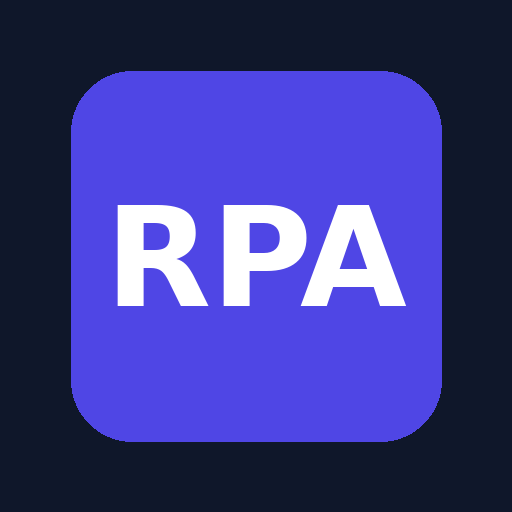
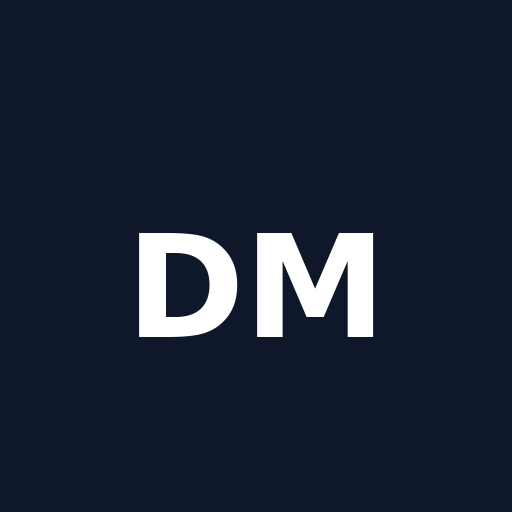
Atualizar DM Âncora para instalação no Android

diff --git a/index.html b/index.html
@@ -1,4 +1,4 @@
-<!doctype html><html lang="pt-BR"><head><meta charset="utf-8"><meta name="viewport" content="width=device-width,initial-scale=1"><title>Emissor RPA Valmera</title><style>
+<!doctype html><html lang="pt-BR"><head><meta charset="utf-8"><meta name="viewport" content="width=device-width,initial-scale=1"><title>DM Âncora</title><style>
 :root{--n:#0f172a;--i:#4f46e5;--b:#f1f5f9;--l:#cbd5e1;--r:#b91c1c;--g:#047857}*{box-sizing:border-box}body{margin:0;background:var(--b);font:14px Arial;color:#1e293b}header{background:var(--n);color:#fff;padding:20px}.wrap{width:100%;max-width:none;margin:0 auto}.row,.actions{display:flex;gap:8px;align-items:center;justify-content:space-between}.layout{display:grid;grid-template-columns:minmax(0,1fr) minmax(0,1fr);gap:14px;padding:12px 14px;width:100%}.card,.paper{background:#fff;border:1px solid var(--l);border-radius:12px;padding:18px;margin-bottom:16px}.fields{display:grid;grid-template-columns:1fr 1fr;gap:12px}.full{grid-column:1/-1}label{font-size:12px;font-weight:700;display:block;margin-bottom:4px}input,textarea,select{width:100%;padding:9px;border:1px solid var(--l);border-radius:7px;font:inherit}button{padding:9px 12px;border:0;border-radius:7px;color:#fff;background:#334155;font-weight:700;cursor:pointer}.primary{background:var(--i)}.danger{background:#7f1d1d}.notice{padding:11px;background:#eef2ff;border:1px solid #c7d2fe;border-radius:8px;font-size:12px}.admin-only{display:none!important}.admin-dashboard{display:none;position:fixed;inset:0;background:#f1f5f9;z-index:8;overflow:auto;padding:20px}.admin-dashboard.open{display:block}.admin-dashboard .admin-only{display:block!important}.admin-panel-wrap{max-width:1150px;margin:auto}.admin-top{position:sticky;top:0;background:#0f172a;color:#fff;padding:14px 18px;border-radius:12px;display:flex;justify-content:space-between;align-items:center;gap:12px;z-index:2;margin-bottom:16px}.admin-tabs{display:flex;flex-wrap:wrap;gap:7px}.admin-tab.active{background:#4f46e5}.admin-section{display:none}.admin-section.active{display:block}.tools{display:flex;flex-wrap:wrap;gap:7px}.history{max-height:280px;overflow:auto;border:1px solid #e2e8f0;border-radius:8px}table{width:100%;border-collapse:collapse;font-size:11px}th,td{padding:7px;border-bottom:1px solid #e2e8f0;text-align:left}th{background:#f8fafc;position:sticky;top:0}.paper{position:sticky;top:10px;padding:26px}.dochead{border-bottom:2px solid var(--n);padding-bottom:12px;display:flex;justify-content:space-between}.title{font-size:20px;font-weight:800}.parts{display:grid;grid-template-columns:1fr 1fr;gap:15px;margin:16px 0;padding:12px 0;border-block:1px solid #ddd}.total{background:var(--n);color:#fff;font-weight:bold}.total td:last-child{color:#34d399}.sig{display:grid;grid-template-columns:1fr 1fr;gap:30px;margin-top:55px;text-align:center}.sig div{border-top:1px solid #555;padding-top:5px}.modal{display:none;position:fixed;inset:0;background:#0f172acc;align-items:center;justify-content:center;z-index:10}.modal.open{display:flex}.modalbox{background:#fff;padding:22px;border-radius:12px;width:min(420px,92%)}.status{font-size:11px;color:#64748b;margin-top:6px}.hidden{display:none!important}.security-grid{display:grid;grid-template-columns:1fr 1fr;gap:10px}.lock-warning{color:#b91c1c;font-weight:700;font-size:12px;margin-top:8px}@media(max-width:650px){.security-grid{grid-template-columns:1fr}}@media(max-width:900px){.layout{grid-template-columns:1fr}.paper{position:static}.fields{grid-template-columns:1fr}.full{grid-column:auto}}@media print{.no-print{display:none!important}body{background:#fff}.layout{display:block;padding:0}.paper{border:0;padding:8mm;margin:0;box-shadow:none}@page{size:A4;margin:8mm}}
 
 /* Modo compacto e responsivo */
@@ -42,18 +42,18 @@ body.modo-compacto h2{margin-block-start:.35em;margin-block-end:.35em}
 <meta name="mobile-web-app-capable" content="yes">
 <meta name="apple-mobile-web-app-capable" content="yes">
 <meta name="apple-mobile-web-app-status-bar-style" content="black-translucent">
-<meta name="apple-mobile-web-app-title" content="RPA Valmera">
+<meta name="apple-mobile-web-app-title" content="DM Âncora">
 <link rel="apple-touch-icon" href="icons/icon-192.png">
 </head><body>
-<header class="no-print"><div class="wrap row"><div><b style="font-size:22px">Emissor de RPA 2026</b><div id="headerEmpresa" style="font-size:11px;color:#cbd5e1">VALMERA LTDA</div></div><div class="tools"><button id="compactBtn" type="button">Modo compacto</button><button id="adminBtn">Painel administrativo</button><button id="printBtn" class="primary">Emitir / Imprimir</button></div></div></header>
+<header class="no-print"><div class="wrap row"><div><b style="font-size:22px">DM Âncora</b><div id="headerEmpresa" style="font-size:11px;color:#cbd5e1">VALMERA LTDA</div></div><div class="tools"><button id="compactBtn" type="button">Modo compacto</button><button id="adminBtn">Painel administrativo</button><button id="printBtn" class="primary">Emitir / Imprimir</button></div></div></header>
 <main class="wrap layout"><section class="no-print">
 <div class="card"><h2>Cadastro de prestadores</h2><div class="fields"><div class="full"><label>Prestador cadastrado</label><select id="selPrest"><option value="">Novo prestador</option></select></div><div class="full tools"><button id="novo">Novo</button><button id="salvar" class="primary">Salvar cadastro</button><button id="excluir" class="danger admin-only">Excluir</button></div><div class="full"><label>Nome completo *</label><input id="nome"></div><div><label>CPF *</label><input id="cpf" maxlength="14" placeholder="000.000.000-00"><div id="cpfStatus" class="status"></div></div><div><label>PIS/NIT/PASEP</label><input id="pis"></div><div class="full"><label>Profissão</label><input id="prof"></div></div></div>
 <div class="card"><h2>RPA</h2><div class="fields"><div class="full"><label>Descrição do serviço *</label><textarea id="servico" rows="3"></textarea></div><div><label>Valor bruto *</label><input id="bruto" value="R$ 5.000,00"></div><div><label>Número</label><input id="numero" value="2026/001"></div><div><label>Data</label><input id="data" maxlength="10" placeholder="00/00/0000"></div><div><label>Dependentes</label><input id="deps" type="number" min="0" value="0"></div></div></div>
 <div class="card admin-only admin-section active" data-admin-section="licenciamento"><h2>Dados da empresa</h2><div class="notice">Este painel é protegido pela senha do proprietário. Altere os dados antes de entregar o programa ao cliente.</div><div class="fields" style="margin-top:12px"><div class="full"><label>Razão social / Empresa</label><input id="licEmpresaPainel"></div><div><label>CNPJ</label><input id="licCnpjPainel" maxlength="18" placeholder="00.000.000/0000-00"><div id="licCnpjStatus" class="status"></div></div><div class="full tools"><button id="empresaSalvar" type="button" class="primary">Salvar empresa</button><button id="licCopiar" type="button">Copiar dados da empresa</button></div></div><div id="empresaStatus" class="status"></div></div><div class="card admin-only admin-section" data-admin-section="auditoria"><h2>Auditoria das alterações</h2><div class="tools" style="margin-bottom:8px"><button id="auditExport">Exportar auditoria</button><button id="auditLimpar" class="danger">Limpar auditoria</button></div><div class="history"><table><thead><tr><th>Data/hora</th><th>Ação</th><th>Responsável</th><th>Detalhes</th></tr></thead><tbody id="auditBody"></tbody></table><div id="auditVazio" class="status" style="padding:12px">Nenhum evento registrado.</div></div></div>
-<div class="card admin-only admin-section" data-admin-section="senha"><h2>Trocar código administrativo local</h2><div class="notice">Este código protege apenas as configurações locais deste aplicativo. Não informe senha de e-mail, Google, banco ou qualquer outro serviço.</div><div class="security-grid" style="margin-top:12px"><div><label>Código atual</label><input id="pwdAtual" type="text" aria-label="Código administrativo atual" autocomplete="off" inputmode="text" data-lpignore="true" data-1p-ignore="true"></div><div><label>Novo código</label><input id="pwdNova" type="text" aria-label="Novo código administrativo" autocomplete="off" inputmode="text" data-lpignore="true" data-1p-ignore="true"></div><div><label>Confirmar novo código</label><input id="pwdConfirma" type="text" aria-label="Confirmação do código administrativo" autocomplete="off" inputmode="text" data-lpignore="true" data-1p-ignore="true"></div><div class="full tools"><button id="pwdSalvar" type="button" class="primary">Alterar código</button></div></div><div id="pwdStatus" class="status"></div></div><div class="card admin-only admin-section" data-admin-section="configuracoes"><h2>Configurações protegidas</h2><div class="notice">Somente o proprietário pode alterar estes parâmetros.</div><div class="fields"><div><label>INSS (%)</label><input id="aliqINSS" type="number" value="11" step="0.1"></div><div><label>Teto INSS</label><input id="teto" type="number" value="8475.55" step="0.01"></div><div><label>Aplicar IRRF</label><input id="usaIR" type="checkbox" checked></div><div><label>ISS (%)</label><input id="iss" type="number" value="0" step="0.1"></div><div><label>CBS (%)</label><input id="cbs" type="number" value="0.9" step="0.1"></div><div><label>IBS (%)</label><input id="ibs" type="number" value="0.1" step="0.1"></div></div></div>
+<div class="card admin-only admin-section" data-admin-section="senha"><h2>Trocar senha do proprietário</h2><div class="notice">A senha protege somente o Painel administrativo. Guarde a nova senha em local seguro.</div><div class="security-grid" style="margin-top:12px"><div><label>Senha atual</label><input id="pwdAtual" type="password" autocomplete="off"></div><div><label>Nova senha</label><input id="pwdNova" type="password" autocomplete="off"></div><div><label>Confirmar nova senha</label><input id="pwdConfirma" type="password" autocomplete="off"></div><div class="full tools"><button id="pwdSalvar" type="button" class="primary">Alterar senha</button></div></div><div id="pwdStatus" class="status"></div></div><div class="card admin-only admin-section" data-admin-section="configuracoes"><h2>Configurações protegidas</h2><div class="notice">Somente o proprietário pode alterar estes parâmetros.</div><div class="fields"><div><label>INSS (%)</label><input id="aliqINSS" type="number" value="11" step="0.1"></div><div><label>Teto INSS</label><input id="teto" type="number" value="8475.55" step="0.01"></div><div><label>Aplicar IRRF</label><input id="usaIR" type="checkbox" checked></div><div><label>ISS (%)</label><input id="iss" type="number" value="0" step="0.1"></div><div><label>CBS (%)</label><input id="cbs" type="number" value="0.9" step="0.1"></div><div><label>IBS (%)</label><input id="ibs" type="number" value="0.1" step="0.1"></div></div></div>
 </section><section><article class="paper"><div class="dochead"><div><div class="title">Recibo de Pagamento a Autônomo</div><small id="docEmpresaCab">VALMERA LTDA</small></div><div><b>Nº <span id="oNumero">---</span></b><br><span id="oData">__/__/____</span></div></div><p>Recebi de <b id="docEmpresaTexto">VALMERA LTDA</b>, CNPJ <span id="docCnpjTexto">34.085.077/0001-23</span>, a quantia abaixo demonstrada pelos serviços prestados.</p><div class="parts"><div><b>PRESTADOR</b><p id="oNome">---</p><p>CPF: <span id="oCpf">---</span></p><p>PIS/NIT: <span id="oPis">---</span></p><p>Profissão: <span id="oProf">---</span></p></div><div><b>SERVIÇO</b><p id="oServico">---</p></div></div><table><tbody><tr><td>Valor bruto</td><td id="oBruto"></td></tr><tr><td>(-) INSS</td><td id="oINSS"></td></tr><tr><td>(-) IRRF</td><td id="oIR"></td></tr><tr><td>(-) ISS</td><td id="oISS"></td></tr><tr><td>CBS/IBS informativos</td><td id="oIVA"></td></tr><tr class="total"><td>VALOR LÍQUIDO</td><td id="oLiquido"></td></tr></tbody></table><div class="sig"><div><b id="sigPrest">Prestador</b><br>Prestador</div><div><b id="docEmpresaAss">VALMERA LTDA</b><br>Tomador</div></div><p style="margin-top:28px;text-align:center;font-size:9px;color:#64748b">Sistema licenciado para <span id="licEmpresa">VALMERA LTDA</span></p></article></section></main>
-<div id="adminDashboard" class="admin-dashboard no-print"><div class="admin-panel-wrap"><div class="admin-top"><div><strong style="font-size:18px">Painel administrativo</strong><div style="font-size:11px;color:#cbd5e1">Administração restrita do Emissor RPA VALMERA</div></div><div class="tools"><button class="admin-tab active" data-tab="licenciamento">Empresa</button><button class="admin-tab" data-tab="auditoria">Auditoria</button><button class="admin-tab" data-tab="senha">Trocar senha</button><button class="admin-tab" data-tab="configuracoes">Configurações</button><button class="admin-tab" data-tab="backups">Backups</button><button id="adminSair" class="danger">Fechar painel</button></div></div><div id="adminConteudo"></div></div></div><div class="card admin-only admin-section" data-admin-section="backups"><h2>Dados e backups</h2><div class="tools"><button id="exportar">Exportar backup protegido</button><button id="importar">Importar backup</button><button id="baixarAuto">Baixar último automático</button><input id="arquivo" type="file" accept=".rpa,.json" class="hidden"></div><div id="backupStatus" class="status"></div></div>
-<div id="loginModal" class="modal no-print"><div class="modalbox"><h2>Acesso administrativo local</h2><p class="status">Digite o código administrativo criado para este aplicativo. Não use senha de e-mail, Google, banco ou outro serviço.</p><label>Código administrativo local</label><input id="loginSenha" type="text" aria-label="Código administrativo local" autocomplete="off" inputmode="text" data-lpignore="true" data-1p-ignore="true"><div id="loginMsg" class="status"></div><div class="tools" style="justify-content:flex-end;margin-top:14px"><button id="loginCancelar" type="button">Cancelar</button><button id="loginEntrar" type="button" class="primary">Entrar</button></div></div></div><script>
+<div id="adminDashboard" class="admin-dashboard no-print"><div class="admin-panel-wrap"><div class="admin-top"><div><strong style="font-size:18px">Painel administrativo</strong><div style="font-size:11px;color:#cbd5e1">Administração restrita do DM Âncora</div></div><div class="tools"><button class="admin-tab active" data-tab="licenciamento">Empresa</button><button class="admin-tab" data-tab="auditoria">Auditoria</button><button class="admin-tab" data-tab="senha">Trocar senha</button><button class="admin-tab" data-tab="configuracoes">Configurações</button><button class="admin-tab" data-tab="backups">Backups</button><button id="adminSair" class="danger">Fechar painel</button></div></div><div id="adminConteudo"></div></div></div><div class="card admin-only admin-section" data-admin-section="backups"><h2>Dados e backups</h2><div class="tools"><button id="exportar">Exportar backup protegido</button><button id="importar">Importar backup</button><button id="baixarAuto">Baixar último automático</button><input id="arquivo" type="file" accept=".rpa,.json" class="hidden"></div><div id="backupStatus" class="status"></div></div>
+<div id="loginModal" class="modal no-print"><div class="modalbox"><h2>Desbloquear configurações locais</h2><p class="status">Esta senha protege apenas as configurações armazenadas neste dispositivo. Não use senha de e-mail, banco ou outras contas.</p><label>Senha local do aplicativo</label><input id="loginSenha" type="password" autocomplete="off"><div id="loginMsg" class="status"></div><div class="tools" style="justify-content:flex-end;margin-top:14px"><button id="loginCancelar" type="button">Cancelar</button><button id="loginEntrar" type="button" class="primary">Entrar</button></div></div></div><script>
 const $=x=>document.getElementById(x);let admin=false,prestadores=[],historico=[],autos=[];const K={p:'rpa_prestadores_v3',h:'rpa_historico_v3',a:'rpa_backups_v3',o:'rpa_proprietario_v1',u:'rpa_auditoria_v1'};let proprietario={},auditoria=[];const money=v=>Number(v||0).toLocaleString('pt-BR',{style:'currency',currency:'BRL'}), num=v=>{let t=String(v||'').replace(/[^\d,]/g,'').replace(/\./g,'').replace(',','.');return Math.max(0,Number(t)||0)},safe=(k,d)=>{try{return JSON.parse(localStorage.getItem(k))||d}catch{return d}};
 function prepararPainelAdmin(){const destino=$('adminConteudo');document.querySelectorAll('.admin-section').forEach(sec=>destino.appendChild(sec));trocarAbaAdmin('licenciamento')}
 function trocarAbaAdmin(nome){document.querySelectorAll('.admin-section').forEach(sec=>sec.classList.toggle('active',sec.dataset.adminSection===nome));document.querySelectorAll('.admin-tab').forEach(btn=>btn.classList.toggle('active',btn.dataset.tab===nome))}
@@ -65,10 +65,10 @@ function cnpjMask(v){let d=normCnpj(v).slice(0,14);return d.replace(/^(\d{2})(\d
 function cnpjValido(v){let d=normCnpj(v);if(d.length!==14||/^(\d)\1{13}$/.test(d))return false;let calc=(base,pesos)=>{let soma=base.split('').reduce((a,n,i)=>a+(+n)*pesos[i],0),r=soma%11;return r<2?0:11-r};let d1=calc(d.slice(0,12),[5,4,3,2,9,8,7,6,5,4,3,2]);let d2=calc(d.slice(0,12)+d1,[6,5,4,3,2,9,8,7,6,5,4,3,2]);return d.endsWith(String(d1)+String(d2))}
 function licencaSalva(){return safe(LIC_KEY,null)}
 function senhaHashAtual(){return localStorage.getItem(PWD_KEY)||DEFAULT_PWD_HASH}
-function abrirLogin(){$('loginSenha').value='';$('loginMsg').textContent='';$('loginModal').classList.add('open');setTimeout(()=>$('loginSenha').focus(),0)}
+function abrirLogin(){$('loginSenha').value='';$('loginMsg').textContent='';$('loginSenha').setAttribute('autocomplete','off');$('loginModal').classList.add('open');setTimeout(()=>$('loginSenha').focus(),0)}
 function fecharLogin(){$('loginModal').classList.remove('open')}
-async function autenticar(){if(await hash($('loginSenha').value)!==senhaHashAtual())return $('loginMsg').textContent='Código incorreto.';fecharLogin();abrirPainelAdmin()}
-async function alterarSenhaProprietario(){let atual=$('pwdAtual').value,nova=$('pwdNova').value,conf=$('pwdConfirma').value;if(await hash(atual)!==senhaHashAtual())return $('pwdStatus').textContent='Código atual incorreta.';if(nova.length<8||!/[A-Za-z]/.test(nova)||!/[0-9]/.test(nova))return $('pwdStatus').textContent='Use no mínimo 8 caracteres, com pelo menos uma letra e um número.';if(nova!==conf)return $('pwdStatus').textContent='A confirmação não coincide.';localStorage.setItem(PWD_KEY,await hash(nova));$('pwdAtual').value=$('pwdNova').value=$('pwdConfirma').value='';$('pwdStatus').textContent='Código alterado com sucesso.';auditar('ALTERAÇÃO DE SENHA','Código administrativo local atualizada')}
+async function autenticar(){if(await hash($('loginSenha').value)!==senhaHashAtual())return $('loginMsg').textContent='Senha incorreta.';fecharLogin();abrirPainelAdmin()}
+async function alterarSenhaProprietario(){let atual=$('pwdAtual').value,nova=$('pwdNova').value,conf=$('pwdConfirma').value;if(await hash(atual)!==senhaHashAtual())return $('pwdStatus').textContent='Senha atual incorreta.';if(nova.length<8||!/[A-Za-z]/.test(nova)||!/[0-9]/.test(nova))return $('pwdStatus').textContent='Use no mínimo 8 caracteres, com pelo menos uma letra e um número.';if(nova!==conf)return $('pwdStatus').textContent='A confirmação não coincide.';localStorage.setItem(PWD_KEY,await hash(nova));$('pwdAtual').value=$('pwdNova').value=$('pwdConfirma').value='';$('pwdStatus').textContent='Senha alterada com sucesso.';auditar('ALTERAÇÃO DE SENHA','Senha do proprietário atualizada')}
 function renderEmpresa(){let l=licencaSalva()||{empresa:'VALMERA LTDA',cnpj:'34.085.077/0001-23'};$('headerEmpresa').textContent=l.empresa;$('docEmpresaCab').textContent=l.empresa;$('docEmpresaTexto').textContent=l.empresa;$('docCnpjTexto').textContent=l.cnpj;$('docEmpresaAss').textContent=l.empresa;$('licEmpresa').textContent=l.empresa}
 function carregarEmpresaPainel(){let l=licencaSalva()||{empresa:'VALMERA LTDA',cnpj:'34.085.077/0001-23'};$('licEmpresaPainel').value=l.empresa;$('licCnpjPainel').value=l.cnpj;$('empresaStatus').textContent=''}
 function salvarEmpresa(){if(!admin)return;let empresa=$('licEmpresaPainel').value.trim(),cnpj=$('licCnpjPainel').value;if(!empresa)return $('empresaStatus').textContent='Informe a empresa.';if(!cnpjValido(cnpj))return $('empresaStatus').textContent='CNPJ inválido.';let l={empresa,cnpj:cnpjMask(cnpj),atualizadoEm:new Date().toISOString()};localStorage.setItem(LIC_KEY,JSON.stringify(l));proprietario={...ownerPadrao(),...proprietario,empresa:l.empresa,cnpj:l.cnpj,serial:'',atualizadoEm:l.atualizadoEm};localStorage.setItem(K.o,JSON.stringify(proprietario));renderEmpresa();carregarEmpresaPainel();$('empresaStatus').textContent='Empresa salva com sucesso.';auditar('ALTERAÇÃO DA EMPRESA',l.empresa+' | '+l.cnpj)}
@@ -76,7 +76,7 @@ function exigirLicenca(){if(!licencaSalva())localStorage.setItem(LIC_KEY,JSON.st
 function ownerPadrao(){return{nome:'',cpf:'',empresa:'VALMERA LTDA',cnpj:'34.085.077/0001-23',email:'',telefone:'',serial:'VLMR-2026-001',local:'BELO HORIZONTE/MG',atualizadoEm:''}}
 function carregarOwnerTela(){renderLicenca()}
 function renderLicenca(){renderEmpresa()}
-function exportAudit(){download('auditoria_rpa_valmera.json',{app:'RPA VALMERA',exportadoEm:new Date().toISOString(),proprietario,auditoria})}
+function exportAudit(){download('auditoria_rpa_valmera.json',{app:'DM ÂNCORA',exportadoEm:new Date().toISOString(),proprietario,auditoria})}
 const CHAVE_COMPACTO='rpa_modo_compacto_v1';
 function aplicarModoCompacto(ativo){document.body.classList.toggle('modo-compacto',ativo);$('compactBtn').classList.toggle('ativo',ativo);$('compactBtn').textContent=ativo?'Modo normal':'Modo compacto';localStorage.setItem(CHAVE_COMPACTO,ativo?'1':'0')}
 $('compactBtn').onclick=()=>aplicarModoCompacto(!document.body.classList.contains('modo-compacto'));
@@ -88,8 +88,8 @@ function regRPA(){let id=$('selPrest').value;if(!id)return false;let v=valores()
 function filtrados(){return historico}
 function renderHist(){}
 async function hash(t){let b=await crypto.subtle.digest('SHA-256',new TextEncoder().encode(t));return [...new Uint8Array(b)].map(x=>x.toString(16).padStart(2,'0')).join('')}async function keyFrom(p,s){let km=await crypto.subtle.importKey('raw',new TextEncoder().encode(p),'PBKDF2',false,['deriveKey']);return crypto.subtle.deriveKey({name:'PBKDF2',salt:s,iterations:150000,hash:'SHA-256'},km,{name:'AES-GCM',length:256},false,['encrypt','decrypt'])}const b64=b=>btoa(String.fromCharCode(...new Uint8Array(b))),unb64=s=>Uint8Array.from(atob(s),c=>c.charCodeAt(0));async function encrypt(obj,p){let salt=crypto.getRandomValues(new Uint8Array(16)),iv=crypto.getRandomValues(new Uint8Array(12)),key=await keyFrom(p,salt),ct=await crypto.subtle.encrypt({name:'AES-GCM',iv},key,new TextEncoder().encode(JSON.stringify(obj)));return{formato:'RPA-VALMERA-AES-GCM',salt:b64(salt),iv:b64(iv),dados:b64(ct)}}async function decrypt(obj,p){if(obj.formato!=='RPA-VALMERA-AES-GCM')throw Error('Formato inválido.');let key=await keyFrom(p,unb64(obj.salt)),pt=await crypto.subtle.decrypt({name:'AES-GCM',iv:unb64(obj.iv)},key,unb64(obj.dados));return JSON.parse(new TextDecoder().decode(pt))}
-function pacote(){return{app:'RPA VALMERA',versao:5,data:new Date().toISOString(),proprietario,auditoria,prestadores,historico}}function download(nome,obj){let u=URL.createObjectURL(new Blob([JSON.stringify(obj)],{type:'application/octet-stream'})),a=document.createElement('a');a.href=u;a.download=nome;a.click();setTimeout(()=>URL.revokeObjectURL(u),500)}async function autoBackup(m){let l=licencaSalva(),senha=l?('RPA|'+l.cnpj):'RPA-VALMERA-BACKUP';let enc=await encrypt({...pacote(),motivo:m},senha);autos.unshift(enc);autos=autos.slice(0,10);localStorage.setItem(K.a,JSON.stringify(autos));$('backupStatus').textContent='Backup automático protegido: '+new Date().toLocaleString('pt-BR')}
-async function exportar(){let p=prompt('Senha para proteger o backup:');if(!p)return;download('backup_rpa_valmera.rpa',await encrypt(pacote(),p));auditar('EXPORTAÇÃO DE BACKUP','Backup protegido exportado')}async function importar(f){let p=prompt('Senha do backup:');if(!p)return;try{let d=await decrypt(JSON.parse(await f.text()),p);if(d.app!=='RPA VALMERA')throw Error('Backup incompatível.');await autoBackup('antes da importação');prestadores=d.prestadores||[];historico=d.historico||[];proprietario=d.proprietario||ownerPadrao();auditoria=d.auditoria||[];localStorage.setItem(K.p,JSON.stringify(prestadores));localStorage.setItem(K.h,JSON.stringify(historico));localStorage.setItem(K.o,JSON.stringify(proprietario));localStorage.setItem(K.u,JSON.stringify(auditoria));listP();clearP();carregarOwnerTela();renderAuditoria();auditar('IMPORTAÇÃO DE BACKUP','Backup restaurado');alert('Backup importado.')}catch(e){alert('Senha incorreta ou arquivo inválido.')}}
+function pacote(){return{app:'DM ÂNCORA',versao:5,data:new Date().toISOString(),proprietario,auditoria,prestadores,historico}}function download(nome,obj){let u=URL.createObjectURL(new Blob([JSON.stringify(obj)],{type:'application/octet-stream'})),a=document.createElement('a');a.href=u;a.download=nome;a.click();setTimeout(()=>URL.revokeObjectURL(u),500)}async function autoBackup(m){let l=licencaSalva(),senha=l?('RPA|'+l.cnpj):'RPA-VALMERA-BACKUP';let enc=await encrypt({...pacote(),motivo:m},senha);autos.unshift(enc);autos=autos.slice(0,10);localStorage.setItem(K.a,JSON.stringify(autos));$('backupStatus').textContent='Backup automático protegido: '+new Date().toLocaleString('pt-BR')}
+async function exportar(){let p=prompt('Senha para proteger o backup:');if(!p)return;download('backup_rpa_valmera.rpa',await encrypt(pacote(),p));auditar('EXPORTAÇÃO DE BACKUP','Backup protegido exportado')}async function importar(f){let p=prompt('Senha do backup:');if(!p)return;try{let d=await decrypt(JSON.parse(await f.text()),p);if(d.app!=='DM ÂNCORA')throw Error('Backup incompatível.');await autoBackup('antes da importação');prestadores=d.prestadores||[];historico=d.historico||[];proprietario=d.proprietario||ownerPadrao();auditoria=d.auditoria||[];localStorage.setItem(K.p,JSON.stringify(prestadores));localStorage.setItem(K.h,JSON.stringify(historico));localStorage.setItem(K.o,JSON.stringify(proprietario));localStorage.setItem(K.u,JSON.stringify(auditoria));listP();clearP();carregarOwnerTela();renderAuditoria();auditar('IMPORTAÇÃO DE BACKUP','Backup restaurado');alert('Backup importado.')}catch(e){alert('Senha incorreta ou arquivo inválido.')}}
 function mensal(){let mes=$('filtroMes').value;if(!mes)return alert('Selecione o mês do relatório.');let rows=historico.filter(r=>r.data.slice(3).split('/').reverse().join('-')===mes),t=rows.reduce((a,r)=>({b:a.b+r.bruto,d:a.d+r.descontos,l:a.l+r.liquido}),{b:0,d:0,l:0}),w=window.open('','_blank');w.document.write(`<html><head><title>Relatório ${mes}</title><style>body{font:12px Arial;padding:25px}table{width:100%;border-collapse:collapse}th,td{border:1px solid #aaa;padding:6px}h1{font-size:20px}@media print{button{display:none}}</style></head><body><button onclick="print()">Imprimir</button><h1>Relatório mensal de RPAs - VALMERA LTDA</h1><p>Competência: ${mes.split('-').reverse().join('/')}</p><table><tr><th>RPA</th><th>Data</th><th>Prestador</th><th>Bruto</th><th>Descontos</th><th>Líquido</th></tr>${rows.map(r=>`<tr><td>${r.numero}</td><td>${r.data}</td><td>${r.prestador}</td><td>${money(r.bruto)}</td><td>${money(r.descontos)}</td><td>${money(r.liquido)}</td></tr>`).join('')}<tr><th colspan="3">TOTAIS</th><th>${money(t.b)}</th><th>${money(t.d)}</th><th>${money(t.l)}</th></tr></table></body></html>`);w.document.close()}
 document.querySelectorAll('.admin-tab').forEach(btn=>btn.onclick=()=>trocarAbaAdmin(btn.dataset.tab));$('adminSair').onclick=sairPainelAdmin;
 $('cpf').oninput=()=>{$('cpf').value=cpfMask($('cpf').value);$('cpfStatus').textContent=$('cpf').value?(cpfOk($('cpf').value)?'CPF válido':'CPF inválido'):'';calc()};$('data').oninput=()=>{$('data').value=dateMask($('data').value);calc()};$('bruto').oninput=()=>{$('bruto').value=currencyMask($('bruto').value);calc()};['numero','servico','pis','prof','nome','deps','aliqINSS','teto','iss','cbs','ibs','usaIR'].forEach(x=>$(x).addEventListener('input',calc));['aliqINSS','teto','iss','cbs','ibs','usaIR'].forEach(x=>$(x).addEventListener('change',()=>{if(admin){auditar('ALTERAÇÃO DE CONFIGURAÇÃO',x+'='+($(x).type==='checkbox'?$(x).checked:$(x).value));autoBackup('alteração de configuração')}}));$('salvar').onclick=()=>saveP();$('novo').onclick=clearP;$('selPrest').onchange=e=>e.target.value?loadP(e.target.value):clearP();$('excluir').onclick=()=>{if(!admin)return;if(confirm('Excluir prestador?')){prestadores=prestadores.filter(x=>x.id!==$('selPrest').value);localStorage.setItem(K.p,JSON.stringify(prestadores));listP();clearP()}};$('exportar').onclick=exportar;$('importar').onclick=()=>$('arquivo').click();$('arquivo').onchange=e=>{if(e.target.files[0])importar(e.target.files[0]);e.target.value=''};$('baixarAuto').onclick=()=>autos[0]?download('backup_automatico.rpa',autos[0]):alert('Ainda não há backup automático.');$('printBtn').onclick=()=>{if(!saveP(true)||!dateOk($('data').value)||!$('servico').value.trim())return alert('Complete prestador, data e serviço.');regRPA();window.print()};

diff --git a/sw.js b/sw.js
@@ -1,1 +1,8 @@
-const C="dm-ancora-v2";const A=["./","./index.html","./manifest.webmanifest","./icons/icon-192.png","./icons/icon-512.png"];self.addEventListener("install",e=>e.waitUntil(caches.open(C).then(c=>c.addAll(A))));self.addEventListener("activate",e=>e.waitUntil(caches.keys().then(k=>Promise.all(k.filter(x=>x!==C).map(x=>caches.delete(x))))));self.addEventListener("fetch",e=>{if(e.request.method==="GET")e.respondWith(fetch(e.request).then(r=>{let x=r.clone();caches.open(C).then(c=>c.put(e.request,x));return r}).catch(()=>caches.match(e.request).then(r=>r||caches.match("./index.html"))))});
+const CACHE='dm-ancora-v1';
+const APP=['./','./index.html','./manifest.webmanifest','./icons/icon-192.png','./icons/icon-512.png'];
+self.addEventListener('install', e => e.waitUntil(caches.open(CACHE).then(c => c.addAll(APP)).then(() => self.skipWaiting())));
+self.addEventListener('activate', e => e.waitUntil(caches.keys().then(keys => Promise.all(keys.filter(k => k.startsWith('dm-ancora-') && k !== CACHE).map(k => caches.delete(k)))).then(() => self.clients.claim())));
+self.addEventListener('fetch', e => {
+  if(e.request.method !== 'GET') return;
+  e.respondWith(fetch(e.request).then(r => { const copy=r.clone(); caches.open(CACHE).then(c => c.put(e.request,copy)); return r; }).catch(() => caches.match(e.request).then(r => r || caches.match('./index.html'))));
+});
